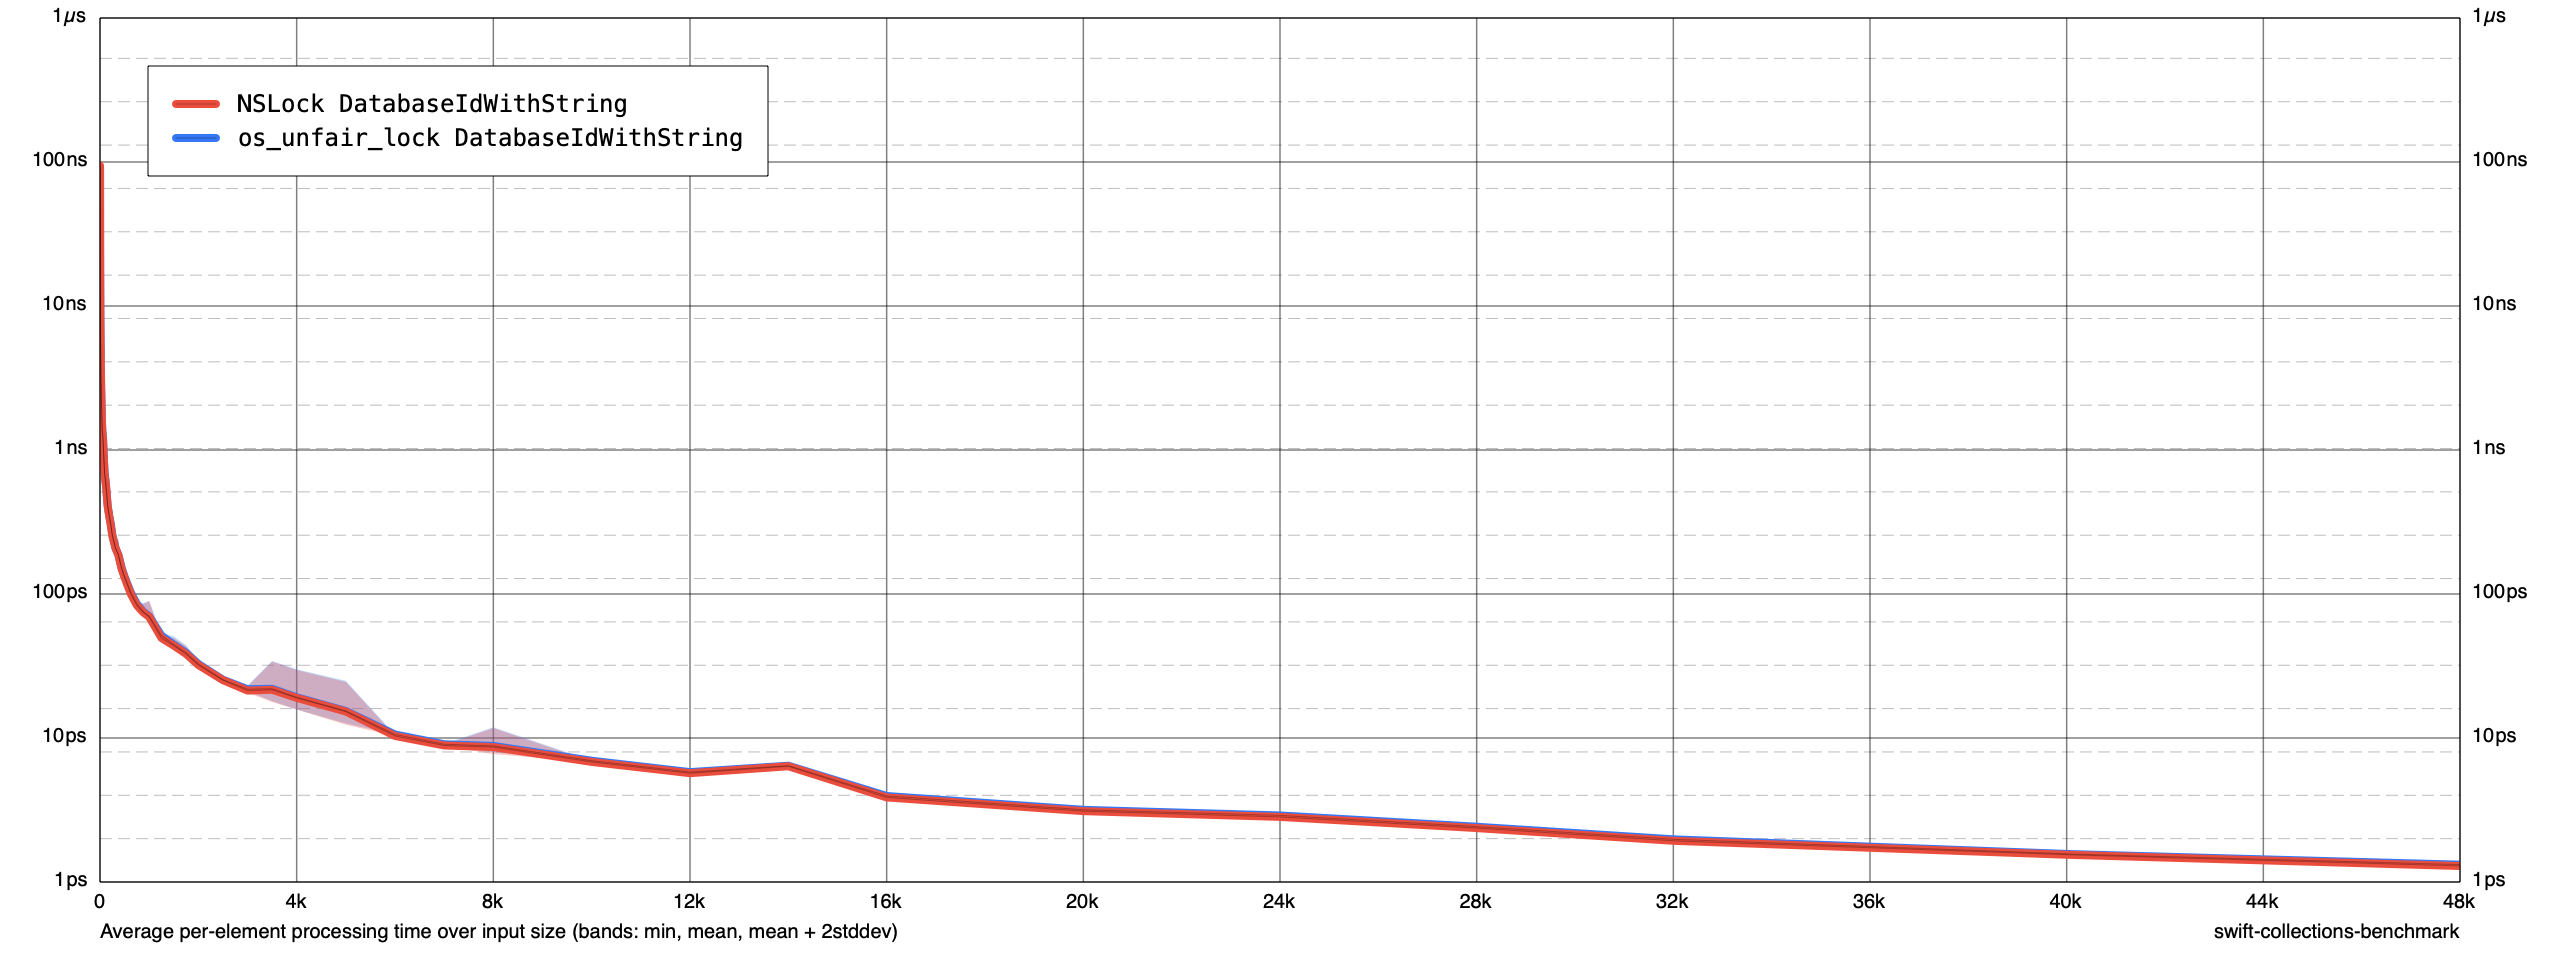
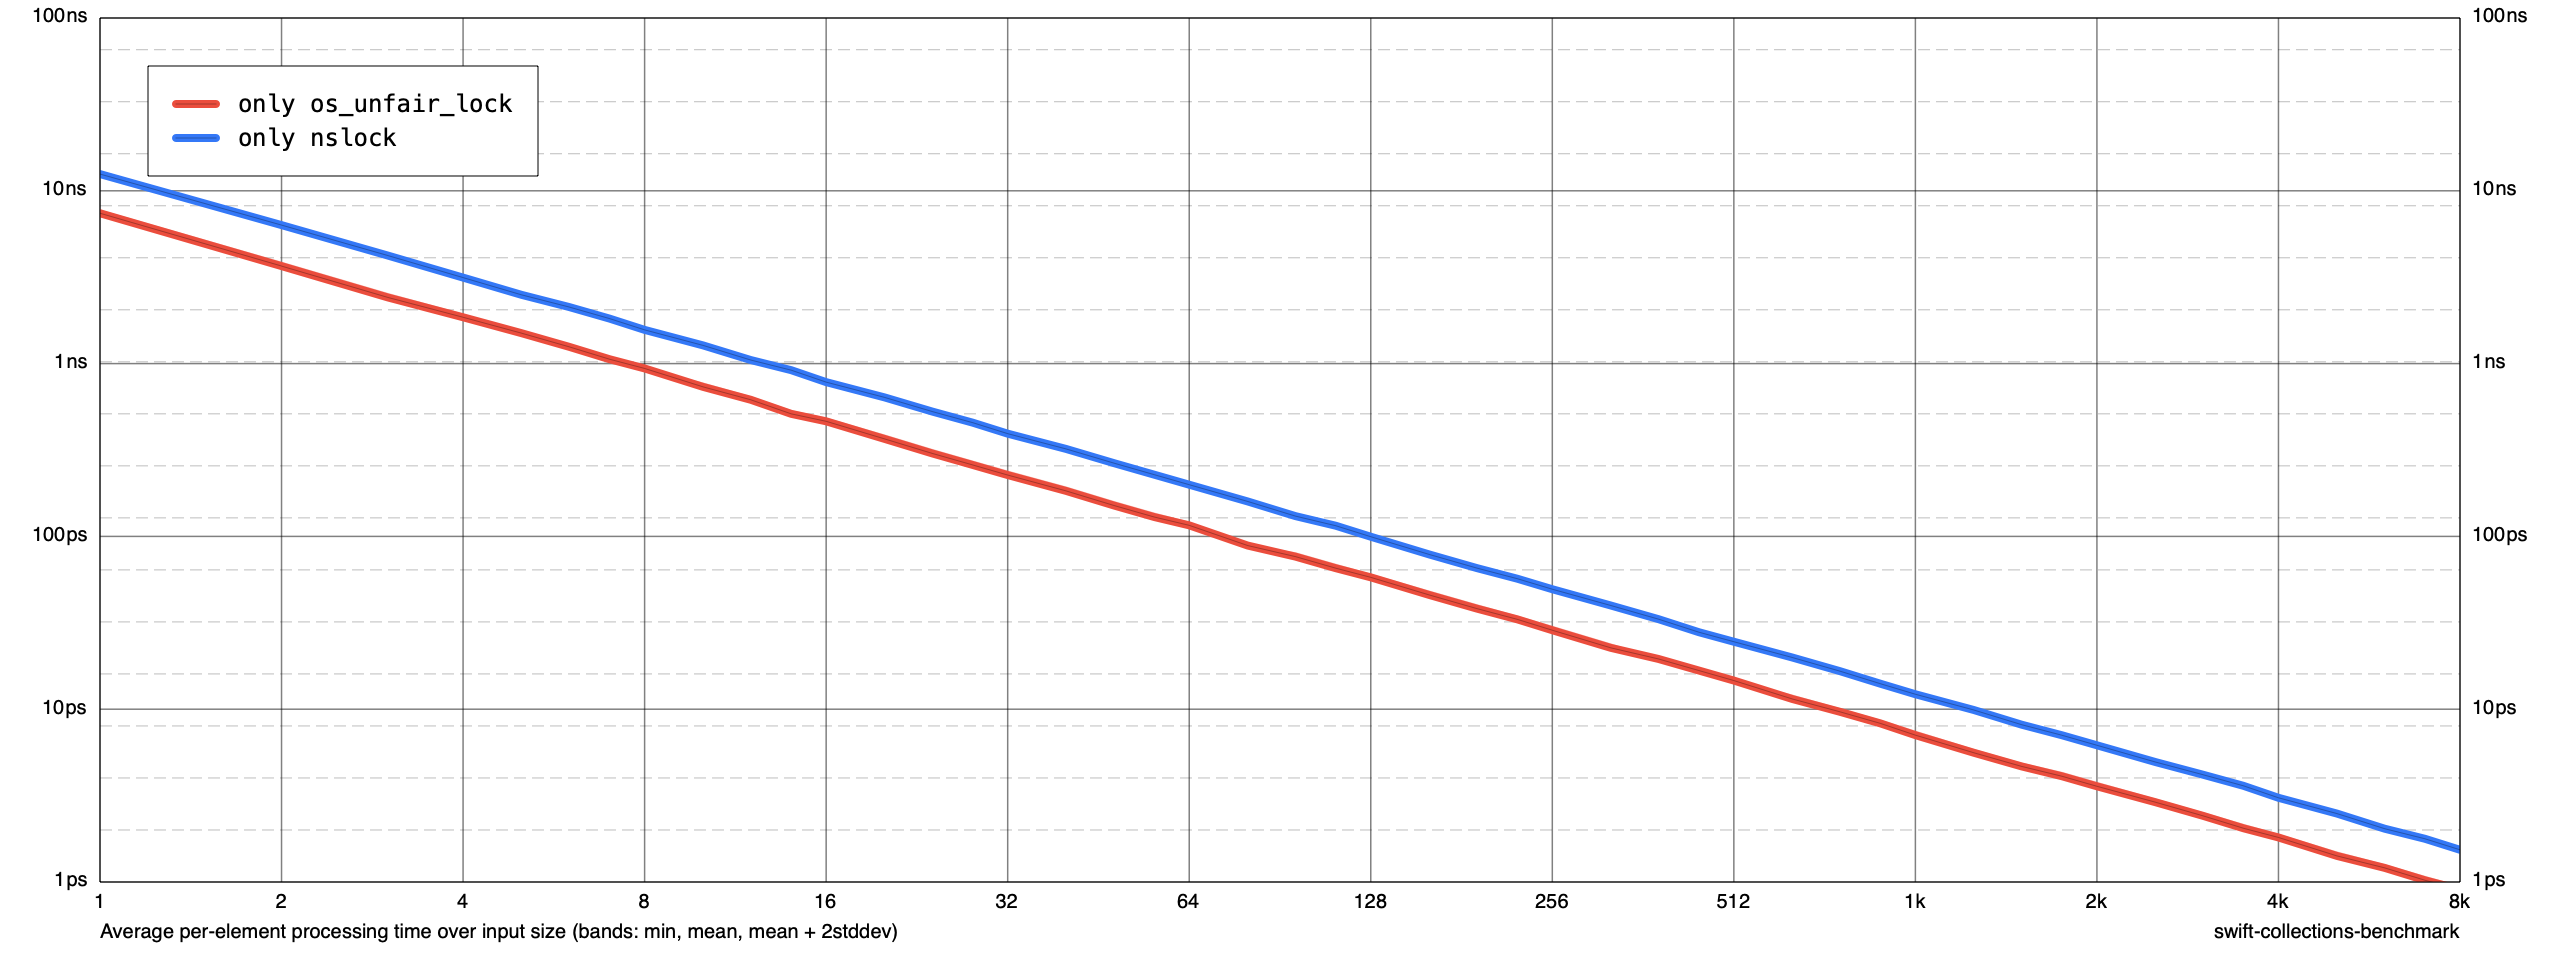
just benching the lock

diff --git a/Articles/Sources/article-benchmark/main.swift b/Articles/Sources/article-benchmark/main.swift
@@ -1,31 +1,59 @@
 
 import CollectionsBenchmark
 import Articles
-//import Foundation
+import Foundation
 
 // Create a new benchmark instance.
 var benchmark = Benchmark(title: "Article Database ID")
 
 benchmark.registerInputGenerator(for: String.self) { size in
-    return "\(size)" // \(UUID().uuidString) -
+    return "\(size)"
 }
 
-// Define a very simple benchmark called `kalimbaOrdered`.
+//benchmark.addSimple(
+//  title: "NSLock DatabaseIdWithString",
+//  input: String.self
+//) { input in
+//  blackHole(
+//    databaseIDWithString(input)
+//  )
+//}
+//
+//benchmark.addSimple(
+//  title: "os_unfair_lock DatabaseIdWithString",
+//  input: String.self
+//) { input in
+//  blackHole(
+//    _databaseIDWithString(input)
+//  )
+//}
+
+var _oldLock = os_unfair_lock_s()
+let _newLock = NSLock()
+func unfairlock() {
+    os_unfair_lock_lock(&_oldLock)
+    os_unfair_lock_unlock(&_oldLock)
+}
+func nslock() {
+    _newLock.lock()
+    _newLock.unlock()
+}
+
 benchmark.addSimple(
-  title: "NSLock DatabaseIdWithString",
+  title: "only os_unfair_lock",
   input: String.self
 ) { input in
   blackHole(
-    databaseIDWithString(input)
+    unfairlock()
   )
 }
 
 benchmark.addSimple(
-  title: "os_unfair_lock DatabaseIdWithString",
+  title: "only nslock",
   input: String.self
 ) { input in
   blackHole(
-    _databaseIDWithString(input)
+    nslock()
   )
 }
 

diff --git a/Articles/README.md b/Articles/README.md
@@ -9,8 +9,8 @@ It's easiest to run this from the command line:
 
     cd Articles
     rm results
-    swift run -c release article-benchmark run --cycles 3 --max-size 50000 results
-    swift run -c release article-benchmark render --linear-size results chart.png
+    swift run -c release article-benchmark run --cycles 5 --max-size 10000 results
+    swift run -c release article-benchmark render results chart.png
     open chart.png
     
 ![chart of differences](chart.png)
